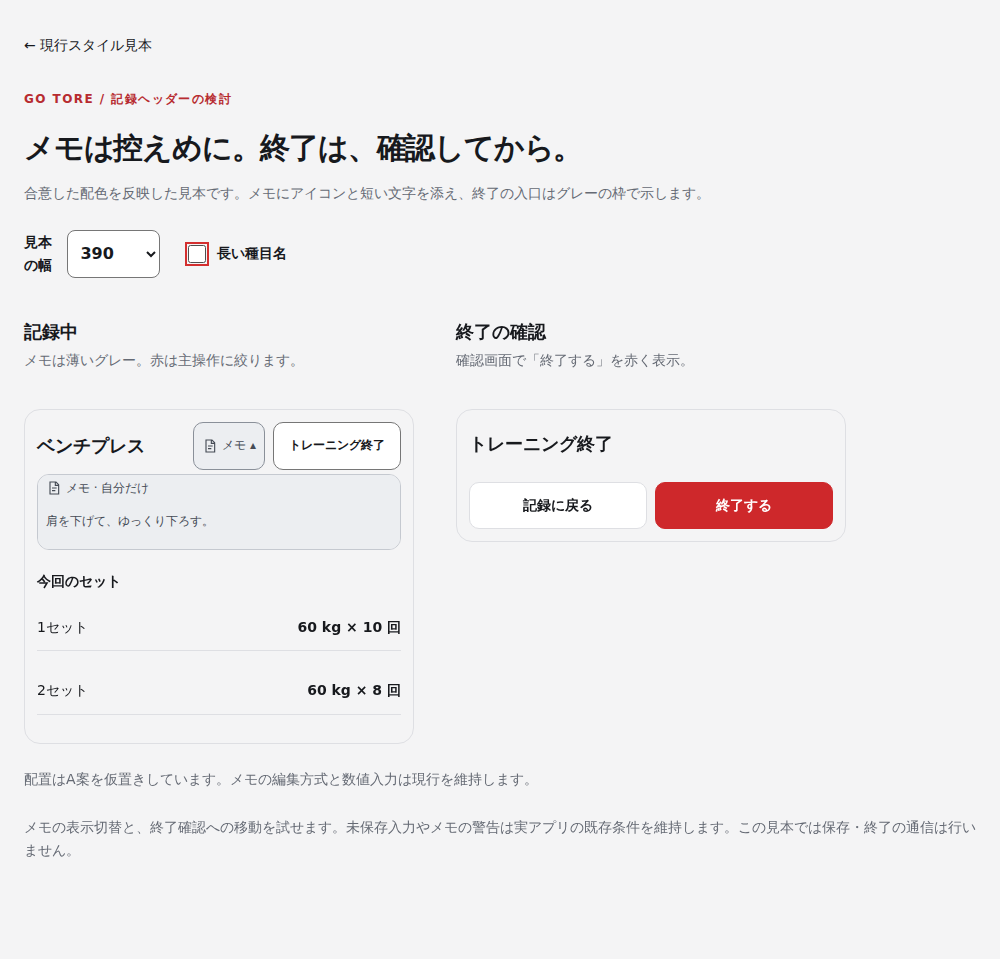
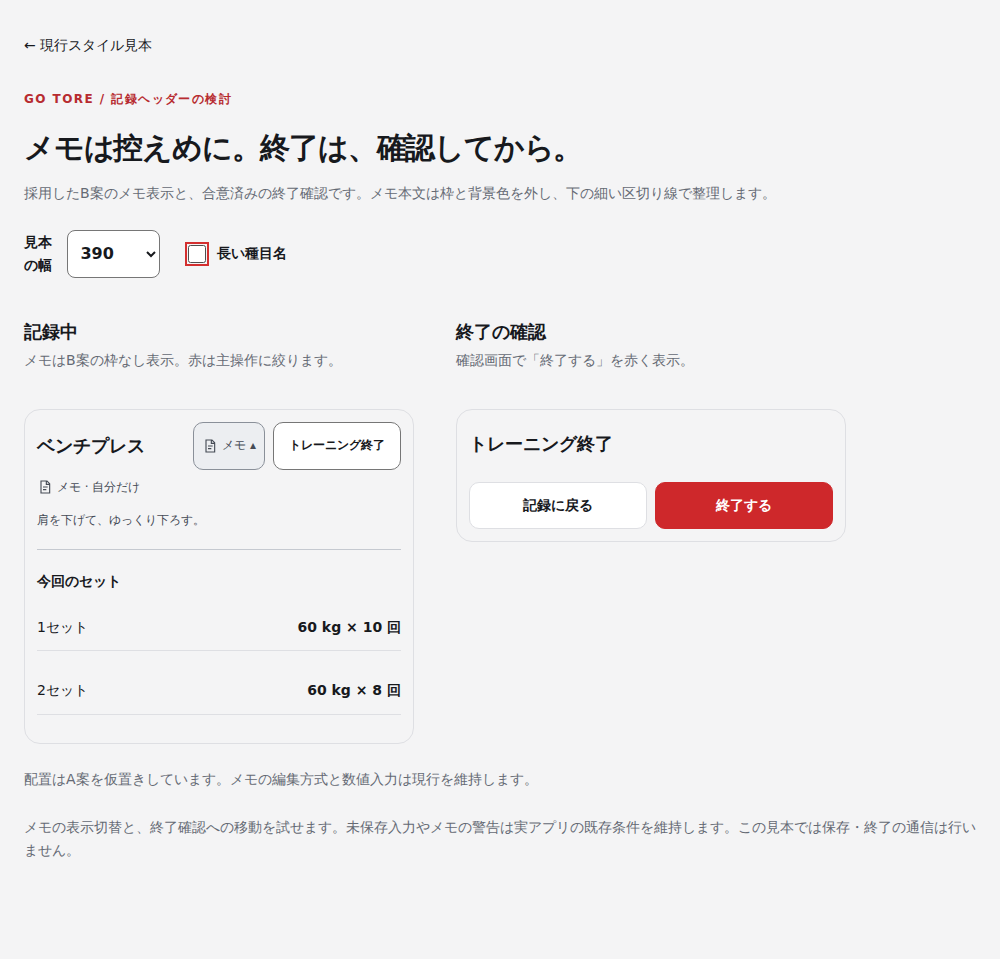
docs: メモ表示のB案を採用見本と基準へ反映

diff --git a/docs/styles/header-selected.html b/docs/styles/header-selected.html
@@ -1,1 +1,1 @@
-<!doctype html><html lang="ja" data-theme="light"><head><meta charset="utf-8"><meta name="viewport" content="width=device-width,initial-scale=1"><title>メモと終了の配置案</title><link rel="stylesheet" href="current/globals.css"><link rel="stylesheet" href="current/v2.css"><link rel="stylesheet" href="header-options.css"><link rel="stylesheet" href="header-selected.css"></head><body><main><a href="index.html">← 現行スタイル見本</a><p class="kicker">GO TORE / 記録ヘッダーの検討</p><h1>メモは控えめに。終了は、確認してから。</h1><p class="intro">合意した配色を反映した見本です。メモにアイコンと短い文字を添え、終了の入口はグレーの枠で示します。</p><div class="controls"><label>見本の幅 <select id="width"><option>390</option><option>320</option><option>430</option></select></label><label><input type="checkbox" id="long">長い種目名</label></div><div class="examples"><article><h2>記録中</h2><p class="description">メモは薄いグレー。赤は主操作に絞ります。</p><div class="v2-app specimen a selected"><div class="recording-view"><section class="session-screen entering-sets"><div class="section-heading recording-header"><h1><button class="exercise-information">ベンチプレス</button></h1><button class="memo-toggle" aria-expanded="true" aria-pressed="true" aria-controls="memo-a"><svg viewBox="0 0 24 24" width="16" height="16" fill="none" stroke="currentColor" stroke-width="1.7" aria-hidden="true"><path d="M6 3h9l4 4v14H6zM14 3v5h5M9 12h7M9 16h5"/></svg><span>メモ</span><span class="chevron" aria-hidden="true">▴</span></button><button class="secondary finish-training">トレーニング終了</button></div><div class="recording-memos" id="memo-a"><span class="memo-caption"><svg viewBox="0 0 24 24" width="16" height="16" fill="none" stroke="currentColor" stroke-width="1.7" aria-hidden="true"><path d="M6 3h9l4 4v14H6zM14 3v5h5M9 12h7M9 16h5"/></svg> メモ · 自分だけ</span><div class="inline-memo"><button class="memo-text" aria-label="種目メモを編集">肩を下げて、ゆっくり下ろす。</button></div></div><div class="sets"><h3>今回のセット</h3><p><span>1セット</span><strong>60 kg × 10 回</strong></p><p><span>2セット</span><strong>60 kg × 8 回</strong></p></div></section></div></div></article><article><h2>終了の確認</h2><p class="description">確認画面で「終了する」を赤く表示。</p><div class="v2-app specimen confirm"><h3>トレーニング終了</h3><div class="confirm-actions"><button class="secondary" id="back">記録に戻る</button><button class="primary" id="confirm">終了する</button></div></div></article></div><p class="foot">配置はA案を仮置きしています。メモの編集方式と数値入力は現行を維持します。</p><p class="foot">メモの表示切替と、終了確認への移動を試せます。未保存入力やメモの警告は実アプリの既存条件を維持します。この見本では保存・終了の通信は行いません。</p><output id="status" role="status"></output></main><script src="header-selected.js"></script></body></html>
+<!doctype html><html lang="ja" data-theme="light"><head><meta charset="utf-8"><meta name="viewport" content="width=device-width,initial-scale=1"><title>メモと終了の配置案</title><link rel="stylesheet" href="current/globals.css"><link rel="stylesheet" href="current/v2.css"><link rel="stylesheet" href="header-options.css"><link rel="stylesheet" href="header-selected.css"></head><body><main><a href="index.html">← 現行スタイル見本</a><p class="kicker">GO TORE / 記録ヘッダーの検討</p><h1>メモは控えめに。終了は、確認してから。</h1><p class="intro">採用したB案のメモ表示と、合意済みの終了確認です。メモ本文は枠と背景色を外し、下の細い区切り線で整理します。</p><div class="controls"><label>見本の幅 <select id="width"><option>390</option><option>320</option><option>430</option></select></label><label><input type="checkbox" id="long">長い種目名</label></div><div class="examples"><article><h2>記録中</h2><p class="description">メモはB案の枠なし表示。赤は主操作に絞ります。</p><div class="v2-app specimen a selected adopted"><div class="recording-view"><section class="session-screen entering-sets"><div class="section-heading recording-header"><h1><button class="exercise-information">ベンチプレス</button></h1><button class="memo-toggle" aria-expanded="true" aria-pressed="true" aria-controls="memo-a"><svg viewBox="0 0 24 24" width="16" height="16" fill="none" stroke="currentColor" stroke-width="1.7" aria-hidden="true"><path d="M6 3h9l4 4v14H6zM14 3v5h5M9 12h7M9 16h5"/></svg><span>メモ</span><span class="chevron" aria-hidden="true">▴</span></button><button class="secondary finish-training">トレーニング終了</button></div><div class="recording-memos" id="memo-a"><span class="memo-caption"><svg viewBox="0 0 24 24" width="16" height="16" fill="none" stroke="currentColor" stroke-width="1.7" aria-hidden="true"><path d="M6 3h9l4 4v14H6zM14 3v5h5M9 12h7M9 16h5"/></svg> メモ · 自分だけ</span><div class="inline-memo"><button class="memo-text" aria-label="種目メモを編集">肩を下げて、ゆっくり下ろす。</button></div></div><div class="sets"><h3>今回のセット</h3><p><span>1セット</span><strong>60 kg × 10 回</strong></p><p><span>2セット</span><strong>60 kg × 8 回</strong></p></div></section></div></div></article><article><h2>終了の確認</h2><p class="description">確認画面で「終了する」を赤く表示。</p><div class="v2-app specimen confirm"><h3>トレーニング終了</h3><div class="confirm-actions"><button class="secondary" id="back">記録に戻る</button><button class="primary" id="confirm">終了する</button></div></div></article></div><p class="foot">配置はA案を仮置きしています。メモの編集方式と数値入力は現行を維持します。</p><p class="foot">メモの表示切替と、終了確認への移動を試せます。未保存入力やメモの警告は実アプリの既存条件を維持します。この見本では保存・終了の通信は行いません。</p><output id="status" role="status"></output></main><script src="header-selected.js"></script></body></html>

diff --git a/docs/styles/header-selected.css b/docs/styles/header-selected.css
@@ -1,1 +1,3 @@
 .examples{grid-template-columns:repeat(2,minmax(0,1fr));max-width:840px}.selected .recording-header .memo-toggle{color:#454b55;background:#eceef1;border-color:#8a9099;display:flex;align-items:center;gap:4px}.selected .recording-header .memo-toggle[aria-pressed=false]{background:#fff}.selected .recording-memos{background:#eceef1;border-left:0;border:1px solid #c5c9d0;color:#454b55}.selected .recording-memos .memo-caption,.selected .recording-memos .memo-text{color:#454b55}.selected .memo-caption{display:flex;align-items:center;gap:4px}.confirm h3{font-size:18px;margin:8px 0 24px}.confirm p{font-size:14px;line-height:1.7}.confirm-actions{display:flex;gap:8px;margin-top:24px}.confirm-actions button{flex:1;min-height:48px}.confirm:focus{outline:2px solid #767676;outline-offset:4px}.controls label{flex-direction:row}svg{flex-shrink:0}@media(max-width:850px){.examples{grid-template-columns:1fr}}
+
+.selected.adopted .recording-memos{background:transparent;border:0;border-bottom:1px solid #c5c9d0;border-radius:0;padding:4px 0}

diff --git a/progress.md b/progress.md
@@ -2508,3 +2508,9 @@
 - 影響範囲・関連ファイル: docs/styles/memo-options.*、入口と資料。メモ本文表示は未採用、アプリ変更なし。
 - 検証: Chromium320/390/430/1320px、長い種目名、メモ開閉、JSエラー・横はみ出しなしを確認。画像目視、git diff --check成功。比較見本のみにつき先行アプリテスト・make check対象外。
 - 未解決事項・次のアクション: A/B/Cから選択後に実画面の編集・文字拡大・暗色などを評価する。Cの開閉ではセット一覧の位置が変わるため採用時に確認する。
+
+## 2026-09-21 メモ表示B案を採用（#186）
+- 変更内容・目的: ユーザー「Bで行きましょう」に従い、採用見本のメモ本文を背景色・囲み枠・角丸なし、下側の細い区切り線に変更。終了の形は維持し、正本と採用記録を更新した。
+- 影響範囲・関連ファイル: docs/styles/header-selected.html・css・png、資料、docs/design-system.md、task.md。比較用A/B/Cは履歴として維持。アプリ変更なし。
+- 検証: 採用見本のChromium4幅・長い種目名・メモ開閉が成功。git diff --check成功。独立見本と文書のみにつき先行アプリテスト・make check対象外。
+- 未解決事項・次のアクション: 採用デザインの実アプリへの適用と暗色・編集時・文字拡大の評価は未実施。PR #191で採用結果を追跡する。

diff --git a/docs/styles/README.md b/docs/styles/README.md
@@ -87,4 +87,8 @@ http://127.0.0.1:3186/ を開きます。認証やDBは不要です。
 
 ## メモ表示の3案
 
-終了の形はユーザー承認済み。メモは複数案から選ぶ依頼により、[A:薄いグレーの面 / B:枠なしの文章 / C:1行の要約](memo-options.html)を用意。[比較画像](memo-options.png)。本文の見せ方は未採用。Cは展開操作が増える代わりに一覧領域を広く取る。編集方式・保存保護は維持する想定で、実アプリへの適用は未実施。
+終了の形はユーザー承認済み。メモは複数案から選ぶ依頼により、[A:薄いグレーの面 / B:枠なしの文章 / C:1行の要約](memo-options.html)を用意。[比較画像](memo-options.png)。2026-09-21にB案（枠なしの文章）を採用。Cは展開操作が増える代わりに一覧領域を広く取る。編集方式・保存保護は維持する想定で、実アプリへの適用は未実施。
+
+### 採用結果
+
+ユーザー「Bで行きましょう」により、メモは枠・背景色なし＋下側の区切り線に決定。[採用見本](header-selected.html) / [更新画像](header-selected.png)。メモ入口のアイコンと文字、終了の形は維持。比較用memo-optionsは候補の履歴として残す。実アプリへの適用は未実施。

diff --git a/docs/design-system.md b/docs/design-system.md
@@ -14,6 +14,10 @@
 
 その後のユーザー指定で、メモは薄いグレー、終了の入口はグレーの枠付き、終了確認の確定ボタンは赤とする方向に更新。[具体化した見本](styles/header-selected.html)。アイコンと短い文字を併記した形で確認する。配置はA案を仮置きしており、具体値・暗色・実画面での適用は未確定。メモ編集・数値入力・データ保護の既存仕様は維持する。
 
+### 最終選択: メモはB案、終了は合意済みの形
+
+ユーザーがメモ表示のB案を選択。本文は背景色・囲み枠・角丸を外し、下側の細い区切り線でセット一覧と分ける。メモ入口のアイコン＋文字、表示切替とインライン編集は維持。先の「メモは薄いグレー」は本文の背景には適用しない。終了確認は見出しと「記録に戻る」「終了する」の2ボタンとし、通常の補足文・質問文は置かない。既存の未保存入力・下書き保護に必要な条件付き警告は維持する。[採用見本](styles/header-selected.html)。実アプリへの適用は未実施。
+
 ## 基本
 
 - スマートフォンの縦画面・片手操作を基準にする。主操作を見つけやすく、指で押しやすくする。

diff --git a/docs/styles/component-decisions.md b/docs/styles/component-decisions.md
@@ -58,4 +58,8 @@
 
 ## メモ表示の3案
 
-終了の形はユーザー承認済み。メモは複数案から選ぶ依頼により、[A:薄いグレーの面 / B:枠なしの文章 / C:1行の要約](memo-options.html)を用意。[比較画像](memo-options.png)。本文の見せ方は未採用。Cは展開操作が増える代わりに一覧領域を広く取る。編集方式・保存保護は維持する想定で、実アプリへの適用は未実施。
+終了の形はユーザー承認済み。メモは複数案から選ぶ依頼により、[A:薄いグレーの面 / B:枠なしの文章 / C:1行の要約](memo-options.html)を用意。[比較画像](memo-options.png)。2026-09-21にB案（枠なしの文章）を採用。Cは展開操作が増える代わりに一覧領域を広く取る。編集方式・保存保護は維持する想定で、実アプリへの適用は未実施。
+
+### 採用結果
+
+ユーザー「Bで行きましょう」により、メモは枠・背景色なし＋下側の区切り線に決定。[採用見本](header-selected.html) / [更新画像](header-selected.png)。メモ入口のアイコンと文字、終了の形は維持。比較用memo-optionsは候補の履歴として残す。実アプリへの適用は未実施。

diff --git a/task.md b/task.md
@@ -492,3 +492,6 @@
 - 主な実装内容: 現行デモ、統一基準の検討案、合意した部品・状態・画面配置と共通スタイルへの対応。
 - 完了条件: ユーザーが採用案を選び、基準と共通実装・レビュー手順が整合する。
 - 備考: docs/186-design-standardとDraft PRで継続。PR #191で継続。2026-09-21にメモ・記録中は現行の見た目・配置・操作を基準にすると合意。別配色・シート編集案を撤回し、他画面へ展開する共通ルールを整理する。アプリへの適用は未実施。
+
+<!-- #186の採用範囲の追記 -->
+- #186追加合意: メモ本文はB案（枠・背景色なし＋下側の区切り線）、終了は見出しと2ボタンの形を採用。採用見本を更新し、実アプリへの適用は後続。
